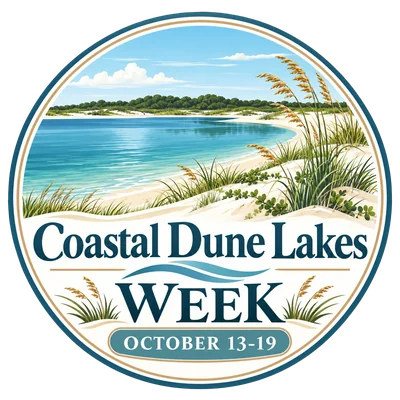
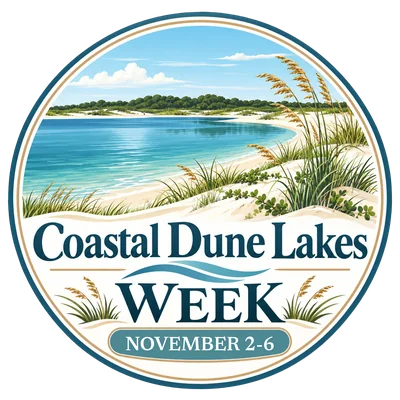
Update the Dune Lakes Week badge to November 2-6. (#60)
Move the home-page date pill, alt text, and Chicago auto-hide cutoff so the badge stays up through November 6, 2026.

Changed region(s): [[0.3, 0.84, 0.69, 0.9]]

diff --git a/index.html b/index.html
@@ -241,7 +241,7 @@
   <link rel="stylesheet" href="styles.css">
   <script>
     (function () {
-      var cutoff = Date.parse("2026-10-20T05:00:00Z");
+      var cutoff = Date.parse("2026-11-07T06:00:00Z");
       if (Date.now() >= cutoff) document.documentElement.classList.add("hide-week-badge");
     })();
   </script>
@@ -261,7 +261,7 @@
     <video class="hero-video" autoplay muted loop playsinline poster="images/topsail-beach.jpg" preload="auto" disablepictureinpicture disableremoteplayback aria-hidden="true" tabindex="-1">
       <source src="videos/dune-lakes-aerial-hero.mp4" type="video/mp4">
     </video>
-    <img class="hero-week-badge" src="images/coastal-dune-lakes-week.webp" alt="Coastal Dune Lakes Week, October 13-19" width="400" height="400" decoding="async">
+    <img class="hero-week-badge" src="images/coastal-dune-lakes-week.webp" alt="Coastal Dune Lakes Week, November 2-6" width="400" height="400" decoding="async">
     <div class="wrap hero-stage">
       <div class="hero-avatar">
         <img class="hero-avatar-poster" src="images/dune-hero-avatar-poster.jpg" alt="Video" width="540" height="960">
